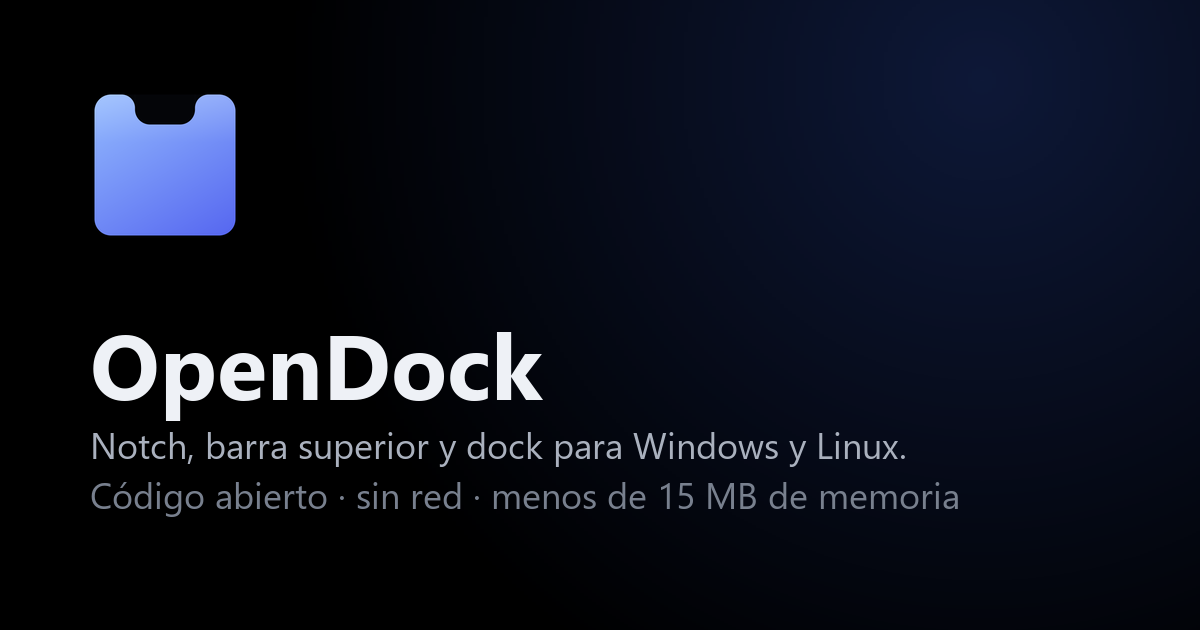
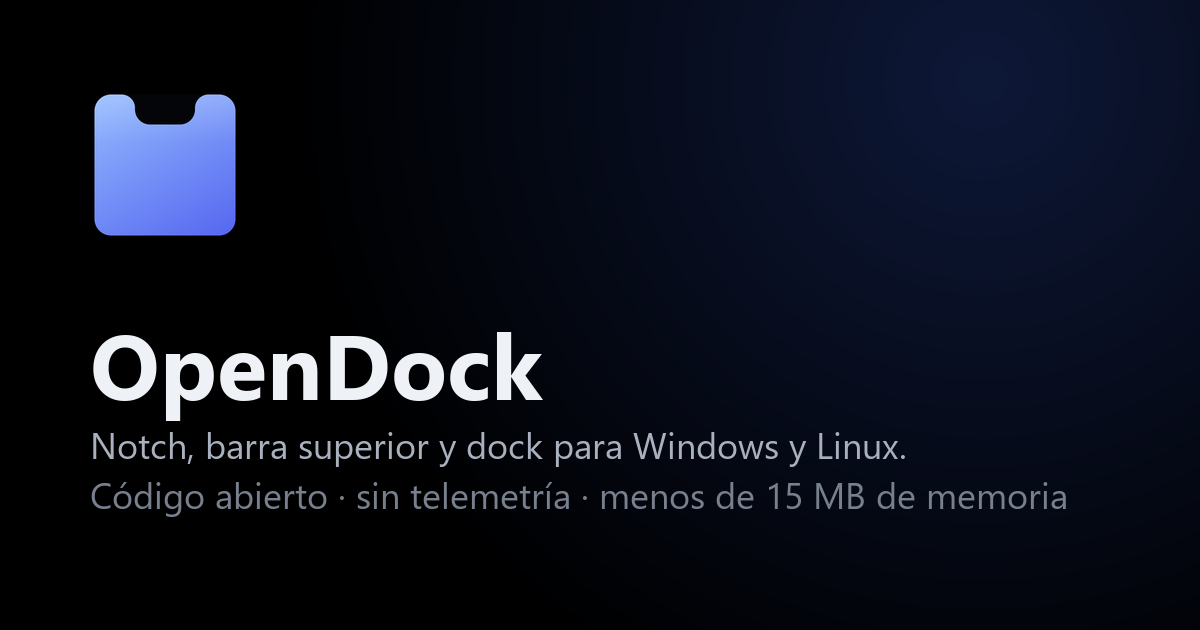
Web y README: la privacidad dice que solo busca actualizaciones si lo activas

Changed region(s): [[0.3392, 0.754, 0.8942, 0.8143]]

diff --git a/docs/index.html b/docs/index.html
@@ -4,14 +4,14 @@
 <meta charset="utf-8">
 <meta name="viewport" content="width=device-width, initial-scale=1, viewport-fit=cover">
 <title>OpenDock — notch, barra superior y dock para Windows y Linux</title>
-<meta name="description" content="OpenDock pone tus notificaciones en un notch y añade una barra superior con centro de control y un dock a Windows 10 y 11 y a Linux. Código abierto, sin red, menos de 15 MB de memoria.">
+<meta name="description" content="OpenDock pone tus notificaciones en un notch y añade una barra superior con centro de control y un dock a Windows 10 y 11 y a Linux. Código abierto, sin telemetría, menos de 15 MB de memoria.">
 <meta name="theme-color" content="#000000">
 <link rel="canonical" href="https://open-dock.netlify.app/">
 <link rel="icon" type="image/png" href="assets/favicon.png">
 <link rel="apple-touch-icon" href="assets/apple-touch-icon.png">
 <meta property="og:type" content="website">
 <meta property="og:title" content="OpenDock">
-<meta property="og:description" content="OpenDock pone tus notificaciones en un notch y añade una barra superior con centro de control y un dock a Windows 10 y 11 y a Linux. Código abierto, sin red, menos de 15 MB de memoria.">
+<meta property="og:description" content="OpenDock pone tus notificaciones en un notch y añade una barra superior con centro de control y un dock a Windows 10 y 11 y a Linux. Código abierto, sin telemetría, menos de 15 MB de memoria.">
 <meta property="og:url" content="https://open-dock.netlify.app/">
 <meta property="og:image" content="https://open-dock.netlify.app/assets/og.png">
 <meta name="twitter:card" content="summary_large_image">
@@ -40,7 +40,7 @@
   <section class="hero">
     <h1><span class="ln">Tu Windows,</span><br><span class="ln soft">con notch, barra y</span> <span class="ln">dock.</span></h1>
     <div class="hero-copy">
-      <p class="lede">OpenDock pone tus notificaciones en un notch, añade una barra superior con centro de control y un dock con tus apps. Todo se mueve con rebote, gasta menos memoria que una pestaña del navegador, no se conecta a internet y su código es abierto. Para Windows 10 y 11, y para Linux.</p>
+      <p class="lede">OpenDock pone tus notificaciones en un notch, añade una barra superior con centro de control y un dock con tus apps. Todo se mueve con rebote, gasta menos memoria que una pestaña del navegador, no te rastrea (solo busca actualizaciones si lo activas) y su código es abierto. Para Windows 10 y 11, y para Linux.</p>
       <div class="cta-row">
         <a class="btn btn-primary" href="#instalar">Instalar OpenDock <span class="arr">↓</span></a>
         <a class="btn btn-ghost" href="https://github.com/JosueGM24/OpenDock">Ver en GitHub</a>
@@ -229,7 +229,7 @@ build.bat</pre>
     <h2>Lee tus avisos sin sacarlos del equipo</h2>
     <dl class="facts">
       <div class="fact"><dt>Notificaciones</dt><dd>Se leen en solo lectura de la base local de Windows. No se copian, no se suben, no se guardan aparte.</dd></div>
-      <div class="fact"><dt>Red</dt><dd>OpenDock no abre ninguna conexión. No hay cuenta, ni actualizaciones automáticas, ni telemetría. Puedes comprobarlo en el código.</dd></div>
+      <div class="fact"><dt>Red</dt><dd>No hay cuenta ni telemetría. La única conexión es buscar actualizaciones en GitHub, y solo si lo activas: te avisa y se actualiza al pulsar, tras comprobar el SHA-256. Puedes comprobarlo en el código.</dd></div>
       <div class="fact"><dt>Permisos</dt><dd>Se instala en tu usuario, sin administrador. Todo su registro vive en HKCU.</dd></div>
       <div class="fact"><dt>Proceso</dt><dd>Arranca con mitigaciones: DLL solo desde System32, sin código dinámico, ASLR y DEP.</dd></div>
       <div class="fact"><dt>Desinstalar</dt><dd>Desde Configuración → Aplicaciones. Devuelve la barra de tareas y el reloj de Windows tal como estaban.</dd></div>

diff --git a/site/page.html b/site/page.html
@@ -560,7 +560,7 @@ header.top { animation: rise .6s cubic-bezier(.2, .9, .25, 1) both; }
   <section class="hero">
     <h1><span class="ln">Tu Windows,</span><br><span class="ln soft">con notch, barra y</span> <span class="ln">dock.</span></h1>
     <div class="hero-copy">
-      <p class="lede">OpenDock pone tus notificaciones en un notch, añade una barra superior con centro de control y un dock con tus apps. Todo se mueve con rebote, gasta menos memoria que una pestaña del navegador, no se conecta a internet y su código es abierto. Para Windows 10 y 11, y para Linux.</p>
+      <p class="lede">OpenDock pone tus notificaciones en un notch, añade una barra superior con centro de control y un dock con tus apps. Todo se mueve con rebote, gasta menos memoria que una pestaña del navegador, no te rastrea (solo busca actualizaciones si lo activas) y su código es abierto. Para Windows 10 y 11, y para Linux.</p>
       <div class="cta-row">
         <a class="btn btn-primary" href="#instalar">Instalar OpenDock <span class="arr">↓</span></a>
         <a class="btn btn-ghost" href="#codigo">Ver el código</a>
@@ -749,7 +749,7 @@ build.bat</pre>
     <h2>Lee tus avisos sin sacarlos del equipo</h2>
     <dl class="facts">
       <div class="fact"><dt>Notificaciones</dt><dd>Se leen en solo lectura de la base local de Windows. No se copian, no se suben, no se guardan aparte.</dd></div>
-      <div class="fact"><dt>Red</dt><dd>OpenDock no abre ninguna conexión. No hay cuenta, ni actualizaciones automáticas, ni telemetría. Puedes comprobarlo en el código.</dd></div>
+      <div class="fact"><dt>Red</dt><dd>No hay cuenta ni telemetría. La única conexión es buscar actualizaciones en GitHub, y solo si lo activas: te avisa y se actualiza al pulsar, tras comprobar el SHA-256. Puedes comprobarlo en el código.</dd></div>
       <div class="fact"><dt>Permisos</dt><dd>Se instala en tu usuario, sin administrador. Todo su registro vive en HKCU.</dd></div>
       <div class="fact"><dt>Proceso</dt><dd>Arranca con mitigaciones: DLL solo desde System32, sin código dinámico, ASLR y DEP.</dd></div>
       <div class="fact"><dt>Desinstalar</dt><dd>Desde Configuración → Aplicaciones. Devuelve la barra de tareas y el reloj de Windows tal como estaban.</dd></div>

diff --git a/docs/privacidad.html b/docs/privacidad.html
@@ -30,7 +30,8 @@
   <p>OpenDock es software libre que se ejecuta solo en tu equipo. Esta página explica qué datos trata el programa y qué datos trata este sitio web.</p>
   <h2>El programa (Windows y Linux)</h2>
   <ul>
-    <li><b>No recoge ni envía datos.</b> OpenDock no abre ninguna conexión de red: no tiene cuenta, ni telemetría, ni estadísticas de uso, ni actualizaciones automáticas.</li>
+    <li><b>No recoge ni envía datos.</b> OpenDock no tiene cuenta, ni telemetría, ni estadísticas de uso.</li>
+    <li><b>Actualizaciones (Windows), solo si las activas.</b> Con "Buscar actualizaciones" encendido (lo propone al instalar y se cambia en Configuración), una vez al día pide a la API pública de GitHub cuál es la última versión, identificándose solo como <code>OpenDock/&lt;versión&gt;</code>; también lo hace si eliges "Buscar actualizaciones" en el menú de la bandeja. Al pulsar "Actualizar" descarga el .exe de esa versión desde GitHub y comprueba su SHA-256 antes de usarlo. GitHub ve esas peticiones como las de cualquier navegador (ver su política más abajo). Sin activarlo, OpenDock no se conecta a nada.</li>
     <li><b>Notificaciones.</b> Para mostrarlas en el notch, en Windows lee en solo lectura la base local de notificaciones de Windows, y en Linux las recibe como servidor de notificaciones del escritorio. No se copian ni se suben a ningún sitio.</li>
     <li><b>Ajustes.</b> Se guardan en tu equipo: en Windows en el registro de tu usuario (HKCU), en Linux en <code>~/.config/opendock</code>. Al desinstalar puedes borrarlos.</li>
     <li>Puedes comprobar todo lo anterior en el <a href="https://github.com/JosueGM24/OpenDock">código fuente</a>.</li>
@@ -44,7 +45,7 @@
   </ul>
   <h2>Contacto</h2>
   <p>Daniel Godínez, mantenedor de OpenDock: usa el formulario de la <a href="./#opinion">página principal</a> o abre un tema en <a href="https://github.com/JosueGM24/OpenDock/issues">GitHub</a>.</p>
-  <p class="meta">Última actualización: 6 de octubre de 2026 · <a href="./">Volver a OpenDock</a></p>
+  <p class="meta">Última actualización: 7 de octubre de 2026 · <a href="./">Volver a OpenDock</a></p>
 </main>
 </body>
 </html>

diff --git a/docs/firma.html b/docs/firma.html
@@ -42,7 +42,7 @@
   </ul>
   <h2>Privacidad</h2>
   <p>This program will not transfer any information to other networked systems unless specifically requested by the user or the person installing or operating it. Ver la <a href="privacidad.html">política de privacidad</a>.</p>
-  <p class="meta">Última actualización: 6 de octubre de 2026 · <a href="./">Volver a OpenDock</a></p>
+  <p class="meta">Última actualización: 7 de octubre de 2026 · <a href="./">Volver a OpenDock</a></p>
 </main>
 </body>
 </html>

diff --git a/site/build_site.py b/site/build_site.py
@@ -88,7 +88,7 @@ if IMAGES:
     big = font(['segoeuib.ttf', 'arialbd.ttf'], 92); mid = font(['segoeui.ttf', 'arial.ttf'], 36)
     d.text((90, 300), 'OpenDock', font=big, fill=(238, 241, 246))
     d.text((90, 420), 'Notch, barra superior y dock para Windows y Linux.', font=mid, fill=(170, 177, 190))
-    d.text((90, 470), 'Código abierto · sin red · menos de 15 MB de memoria', font=mid, fill=(120, 128, 142))
+    d.text((90, 470), 'Código abierto · sin telemetría · menos de 15 MB de memoria', font=mid, fill=(120, 128, 142))
     og.save(os.path.join(assets, 'og.png'), optimize=True)
 else:
     for f in ('logo.png', 'favicon.png', 'apple-touch-icon.png', 'og.png'):
@@ -107,7 +107,7 @@ body = body.replace('<span class="meta">Hecho en C, sin frameworks.</span>',
 assert '__LOGO__' not in body and DOWNLOAD in body
 
 fonts = page[page.index('<link rel="preconnect"'):page.index('<style>')].strip()
-desc = 'OpenDock pone tus notificaciones en un notch y añade una barra superior con centro de control y un dock a Windows 10 y 11 y a Linux. Código abierto, sin red, menos de 15 MB de memoria.'
+desc = 'OpenDock pone tus notificaciones en un notch y añade una barra superior con centro de control y un dock a Windows 10 y 11 y a Linux. Código abierto, sin telemetría, menos de 15 MB de memoria.'
 html = f'''<!doctype html>
 <html lang="es">
 <head>
@@ -201,7 +201,7 @@ def doc_page(name, title, body):
 <main class="wrap doc">
   <a href="./" style="display:inline-flex;align-items:center;gap:10px;text-decoration:none;color:var(--ink);font-weight:700"><img src="assets/logo.png" alt="" width="32" height="32">OpenDock</a>
 {body.rstrip()}
-  <p class="meta">Última actualización: 6 de octubre de 2026 · <a href="./">Volver a OpenDock</a></p>
+  <p class="meta">Última actualización: 7 de octubre de 2026 · <a href="./">Volver a OpenDock</a></p>
 </main>
 </body>
 </html>
@@ -213,7 +213,8 @@ doc_page('privacidad.html', 'Privacidad', f'''
   <p>OpenDock es software libre que se ejecuta solo en tu equipo. Esta página explica qué datos trata el programa y qué datos trata este sitio web.</p>
   <h2>El programa (Windows y Linux)</h2>
   <ul>
-    <li><b>No recoge ni envía datos.</b> OpenDock no abre ninguna conexión de red: no tiene cuenta, ni telemetría, ni estadísticas de uso, ni actualizaciones automáticas.</li>
+    <li><b>No recoge ni envía datos.</b> OpenDock no tiene cuenta, ni telemetría, ni estadísticas de uso.</li>
+    <li><b>Actualizaciones (Windows), solo si las activas.</b> Con "Buscar actualizaciones" encendido (lo propone al instalar y se cambia en Configuración), una vez al día pide a la API pública de GitHub cuál es la última versión, identificándose solo como <code>OpenDock/&lt;versión&gt;</code>; también lo hace si eliges "Buscar actualizaciones" en el menú de la bandeja. Al pulsar "Actualizar" descarga el .exe de esa versión desde GitHub y comprueba su SHA-256 antes de usarlo. GitHub ve esas peticiones como las de cualquier navegador (ver su política más abajo). Sin activarlo, OpenDock no se conecta a nada.</li>
     <li><b>Notificaciones.</b> Para mostrarlas en el notch, en Windows lee en solo lectura la base local de notificaciones de Windows, y en Linux las recibe como servidor de notificaciones del escritorio. No se copian ni se suben a ningún sitio.</li>
     <li><b>Ajustes.</b> Se guardan en tu equipo: en Windows en el registro de tu usuario (HKCU), en Linux en <code>~/.config/opendock</code>. Al desinstalar puedes borrarlos.</li>
     <li>Puedes comprobar todo lo anterior en el <a href="{REPO}">código fuente</a>.</li>

diff --git a/README.md b/README.md
@@ -119,7 +119,11 @@ en autoocultar y se ocultan sus ventanas) y vuelve tal cual al quitarlo, al sali
 desinstalar. Se oculta solo a pantalla completa.
 
 ## Seguridad
-- **Sin red, sin telemetría, sin admin** (`asInvoker`). Todo vive en `HKCU`.
+- **Sin telemetría, sin admin** (`asInvoker`). Todo vive en `HKCU`. La única conexión es la de
+  **buscar actualizaciones**, y solo si lo activas (lo propone al instalar; se cambia en
+  Configuración) o lo pides desde la bandeja: una consulta diaria a la API pública de GitHub y, al
+  pulsar "Actualizar", la descarga del .exe de la versión, que se comprueba con su SHA-256 (y su
+  firma, cuando la tenga) antes de reemplazar el actual. No se envía nada tuyo.
 - **Mitigaciones de proceso** al arrancar: DLLs solo desde System32 (anti DLL-hijacking
   desde Descargas), bloqueo de imágenes remotas/baja integridad, sin puntos de extensión
   heredados (AppInit), sin código dinámico, solo fuentes del sistema, solo binarios
